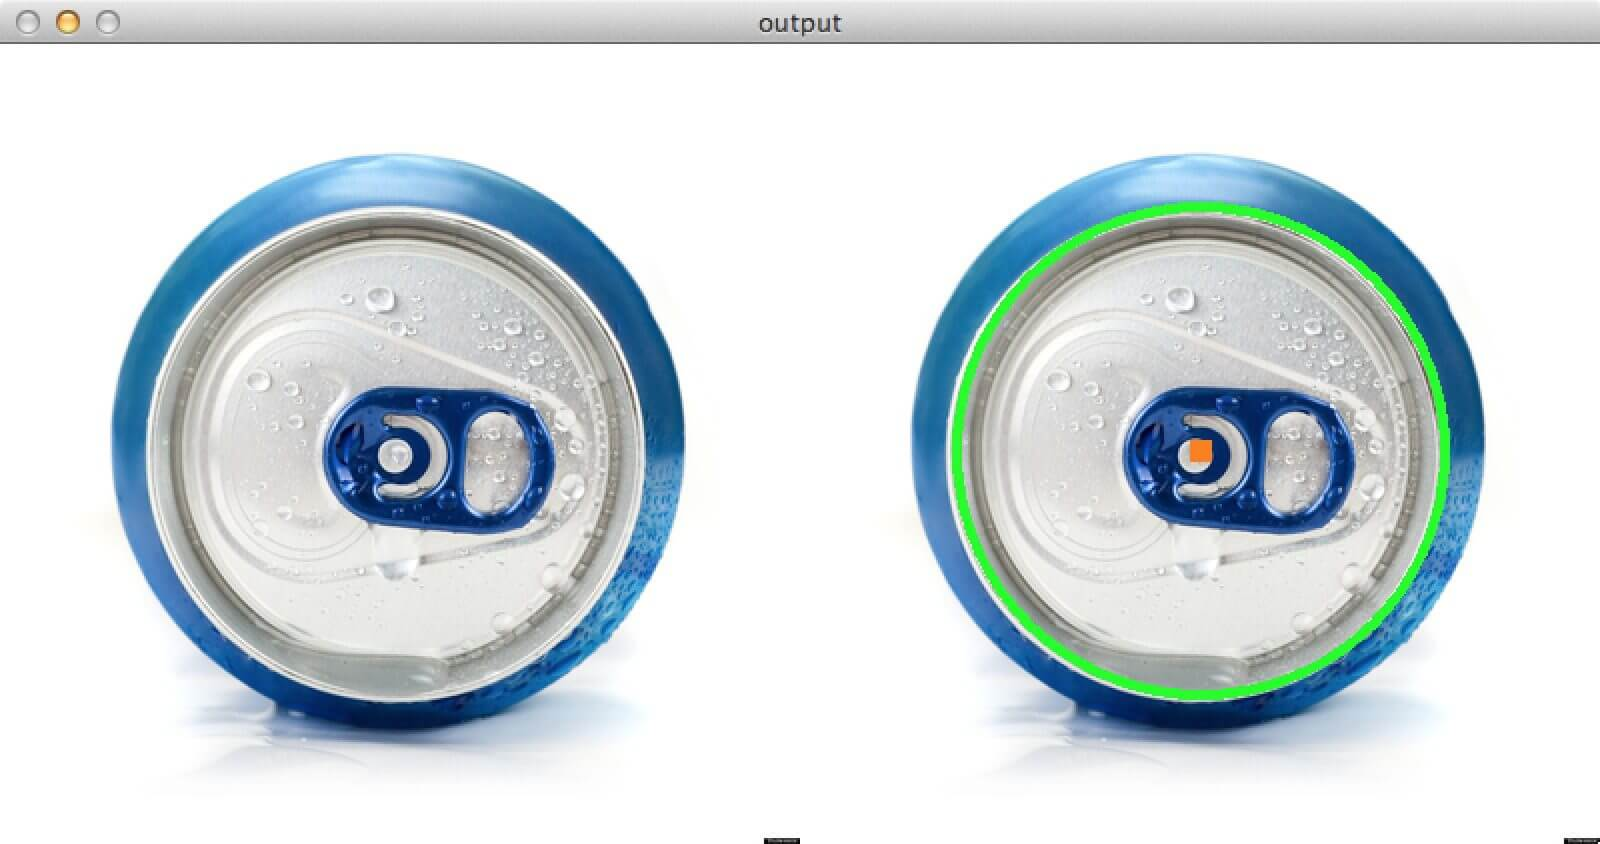
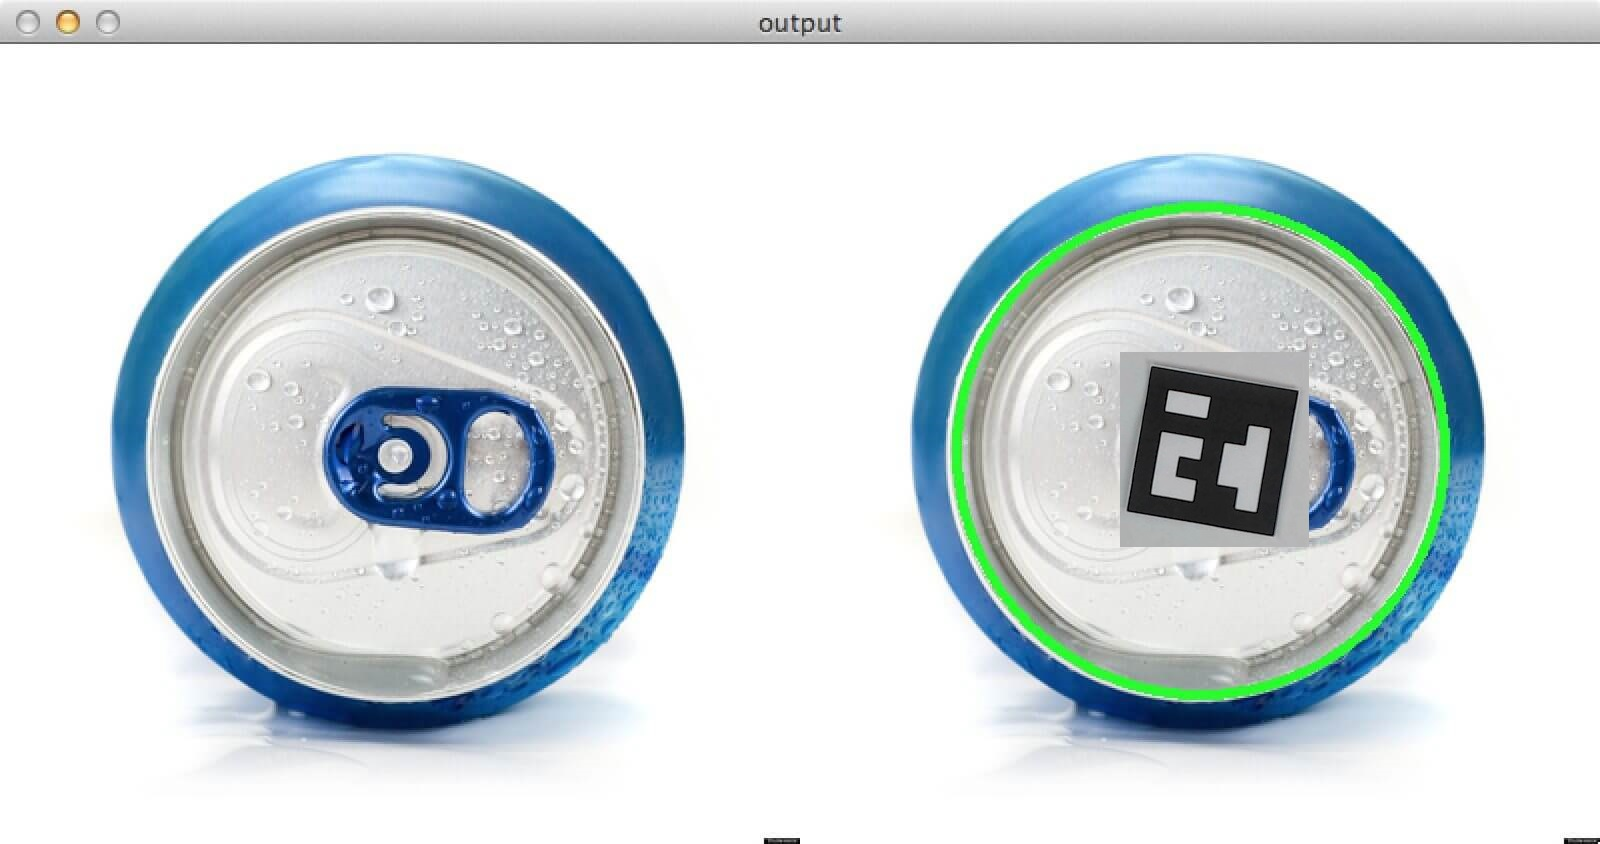
iterative hough transform  need to adjust offset in text

Changed region(s): [[0.6875, 0.4005, 0.8438, 0.6469]]

diff --git a/generate_image.py b/generate_image.py
@@ -3,6 +3,7 @@ import numpy as np
 import cv2
 import matplotlib.pyplot as plt
 from PIL import Image
+import math
 
 from object_detector import HomogeneousBgDetector
 
@@ -51,45 +52,97 @@ def generate_image_circle(opencv_image):
     if corners:
         int_corners = np.int0(corners)
         cv2.polylines(opencv_image, int_corners, True, (0, 255, 0), 5)
-
         aruco_perimeter = cv2.arcLength(corners[0], True)
         pixel_cm_ratio = aruco_perimeter / 20
-
         grayimage = cv2.cvtColor(opencv_image, cv2.COLOR_BGR2GRAY)
         blurimage = cv2.GaussianBlur(grayimage, (21, 21), cv2.BORDER_DEFAULT)
+        circle_x_y = [[0,0]]
+        radii = np.arange(0, 310, 10)
+        for idx in range(len(radii)-1):
+            # print(" 1st loop")
+            minRadius = radii[idx] + 1
+            maxRadius = radii[idx + 1]
+            circles = cv2.HoughCircles(blurimage, cv2.HOUGH_GRADIENT, 1, 5, param1=25, param2=75, minRadius=minRadius, maxRadius=maxRadius)
+            if circles is None:
+                continue
+            circles = np.uint16(np.around(circles))
+            # print(circles)
+            count =1
+            flag = 'true'
+            for i in circles[0, :]:
+                # print("innerloop")
+                radius = i[2] / pixel_cm_ratio
+                diameter = radius * 2
+                coord =[i[0],i[1]]
 
-        all_circles = cv2.HoughCircles(blurimage, cv2.HOUGH_GRADIENT, 0.9, 120)
+                offset1 = 50 + (20 * count)
+                offset2 = offset1 + 20
 
-        if all_circles is not None:
-            all_circles_rounded = np.uint16(np.around(all_circles))
+                for j in circle_x_y:
+                    x_range = range(j[0] - 10, j[0] + 10,1)
+                    y_range = range(j[1] - 10, j[1] + 10,1)
+                    if (coord[0] in x_range) and (coord[1] in y_range):
+                        flag = "false"
+                    else:
+                        flag = 'true'
 
-            print(all_circles_rounded)
-            print(all_circles_rounded.shape)
-            print('Circles found:' + str(all_circles_rounded.shape[1]))
+                if flag == 'true':
+                    circle_x_y.append(coord)
+                    cv2.circle(image_copy, (i[0], i[1]), i[2], (0, 255, 0), 1)
+                    cv2.circle(image_copy, (i[0], i[1]), 2, (0, 0, 255), 3)
+                    cv2.putText(image_copy, "Radius: " + str(round(radius, 2)) + ' cm', (i[0] - 70, i[1] + offset1),
+                                cv2.FONT_HERSHEY_SIMPLEX, .5, (241, 231, 64), 2)
+                    cv2.putText(image_copy, "Diameter: " + str(round(diameter, 2)) + ' cm', (i[0] - 70, i[1] + offset2),
+                                cv2.FONT_HERSHEY_SIMPLEX, .5, (241, 231, 64), 2)
 
-            count = 1
-            for i in all_circles_rounded[0, :]:
-                radius = i[2]/pixel_cm_ratio
-                circumference = 2*(22/7)*radius
-                area = (22/7)*radius*radius
-                cv2.circle(image_copy, (i[0], i[1]), i[2], (50, 200, 200), 5)
-                cv2.circle(image_copy, (i[0], i[1]), 2, (255, 0, 0), 5)
+                # if coord not in circle_x_y:
+                #     circle_x_y.append(coord)
+                #     cv2.circle(image_copy, (i[0], i[1]), i[2], (0, 255, 0), 1)
+                #     cv2.circle(image_copy, (i[0], i[1]), 2, (0, 0, 255), 3)
+                #     cv2.putText(image_copy, "Radius: " + str(round(radius, 2)) + ' cm', (i[0] - 70, i[1] + offset1),
+                #                 cv2.FONT_HERSHEY_SIMPLEX, .5, (241, 231, 64), 2)
+                #     cv2.putText(image_copy, "Diameter: " + str(round(diameter, 2)) + ' cm', (i[0] - 70, i[1] + offset2),
+                #                 cv2.FONT_HERSHEY_SIMPLEX, .5, (241, 231, 64), 2)
+                count = count +1
+                print(circle_x_y)
 
-                #display on the image
-                # Circle
-                # Radius: __ cm
-                # Circumference: ___ cm
-                # Area: __ sqr.cm
+        no_of_circle = len(circle_x_y) -1
+        return (image_copy,no_of_circle)
 
-                cv2.putText(image_copy, "Circle" + str(count), (i[0] - 70, i[1] + 30), cv2.FONT_HERSHEY_SIMPLEX, .5,(241,231,64), 2)
-                cv2.putText(image_copy, "Radius: " + str(round(radius,2))+' cm', (i[0] - 70, i[1] + 50), cv2.FONT_HERSHEY_SIMPLEX, .5,(241,231,64), 2)
-                cv2.putText(image_copy, "Circumference: " + str(round(circumference,2))+' cm', (i[0] - 70, i[1] + 70), cv2.FONT_HERSHEY_SIMPLEX, .5,(241,231,64), 2)
-                cv2.putText(image_copy, "Area: " + str(round(area,2))+' sqr.cm', (i[0] - 70, i[1] + 90), cv2.FONT_HERSHEY_SIMPLEX, .5,(241,231,64), 2)
+    return (image_copy, -1)
 
-                count += 1
-            return (image_copy, len(all_circles_rounded))
-
-        else:
-            return(image_copy,0)
-    return(image_copy,-1)
+    #     all_circles = cv2.HoughCircles(blurimage, cv2.HOUGH_GRADIENT, 0.9, 120)
+    #     print(type(all_circles))
+    #     if all_circles is not None:
+    #         all_circles_rounded = np.uint16(np.around(all_circles))
+    #         print(type(all_circles_rounded))
+    #         print(all_circles_rounded)
+    #         print(all_circles_rounded.shape)
+    #         print('Circles found:' + str(all_circles_rounded.shape[1]))
+    #
+    #         count = 1
+    #         for i in all_circles_rounded[0, :]:
+    #             radius = i[2]/pixel_cm_ratio
+    #             circumference = 2*(22/7)*radius
+    #             area = (22/7)*radius*radius
+    #             cv2.circle(image_copy, (i[0], i[1]), i[2], (50, 200, 200), 5)
+    #             cv2.circle(image_copy, (i[0], i[1]), 2, (255, 0, 0), 5)
+    #
+    #             #display on the image
+    #             # Circle
+    #             # Radius: __ cm
+    #             # Circumference: ___ cm
+    #             # Area: __ sqr.cm
+    #
+    #             cv2.putText(image_copy, "Circle" + str(count), (i[0] - 70, i[1] + 30), cv2.FONT_HERSHEY_SIMPLEX, .5,(241,231,64), 2)
+    #             cv2.putText(image_copy, "Radius: " + str(round(radius,2))+' cm', (i[0] - 70, i[1] + 50), cv2.FONT_HERSHEY_SIMPLEX, .5,(241,231,64), 2)
+    #             cv2.putText(image_copy, "Circumference: " + str(round(circumference,2))+' cm', (i[0] - 70, i[1] + 70), cv2.FONT_HERSHEY_SIMPLEX, .5,(241,231,64), 2)
+    #             cv2.putText(image_copy, "Area: " + str(round(area,2))+' sqr.cm', (i[0] - 70, i[1] + 90), cv2.FONT_HERSHEY_SIMPLEX, .5,(241,231,64), 2)
+    #
+    #             count += 1
+    #         return (image_copy, len(all_circles_rounded))
+    #
+    #     else:
+    #         return(image_copy,0)
+    # return(image_copy,-1)
 

diff --git a/test_circledetection.py b/test_circledetection.py
@@ -4,9 +4,9 @@ import pickle
 import base64
 import json
 from flask import jsonify
-url = "http://2cb6-103-10-28-138.ngrok.io/object_measurement_circle"
+url = "http://127.0.0.1:5000/object_measurement_circle"
 
-my_img = {'image': open('Testimages\imagewithcircle_aruco.jpg', 'rb')}
+my_img = {'image': open('Testimages\image_with_aruco_button.jpg', 'rb')}
 r = requests.post(url, files=my_img)
 js = r.json()
 

diff --git a/test_rectangledetection.py b/test_rectangledetection.py
@@ -4,7 +4,7 @@ import pickle
 import base64
 import json
 
-url = "https://letsmeasuretest2.herokuapp.com/object_measurement_rectangle"
+url = "http://9f92-43-245-87-205.ngrok.io/object_measurement_rectangle"
 
 
 my_img = {'image': open('Testimages\laptopwitharuco.jpg', 'rb')}
